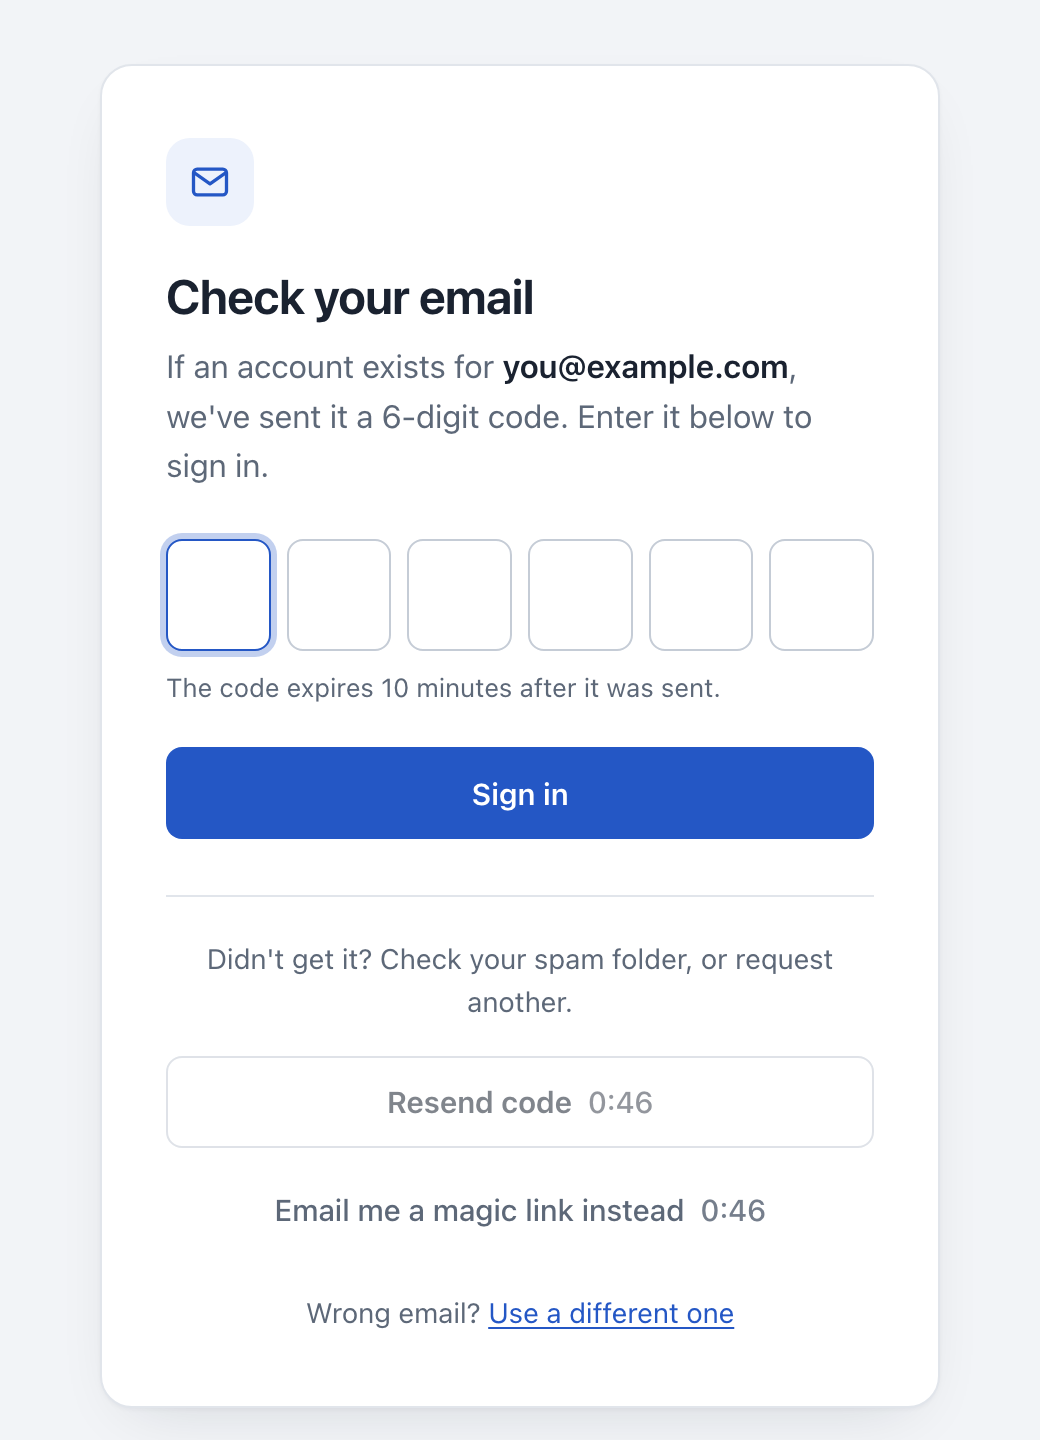
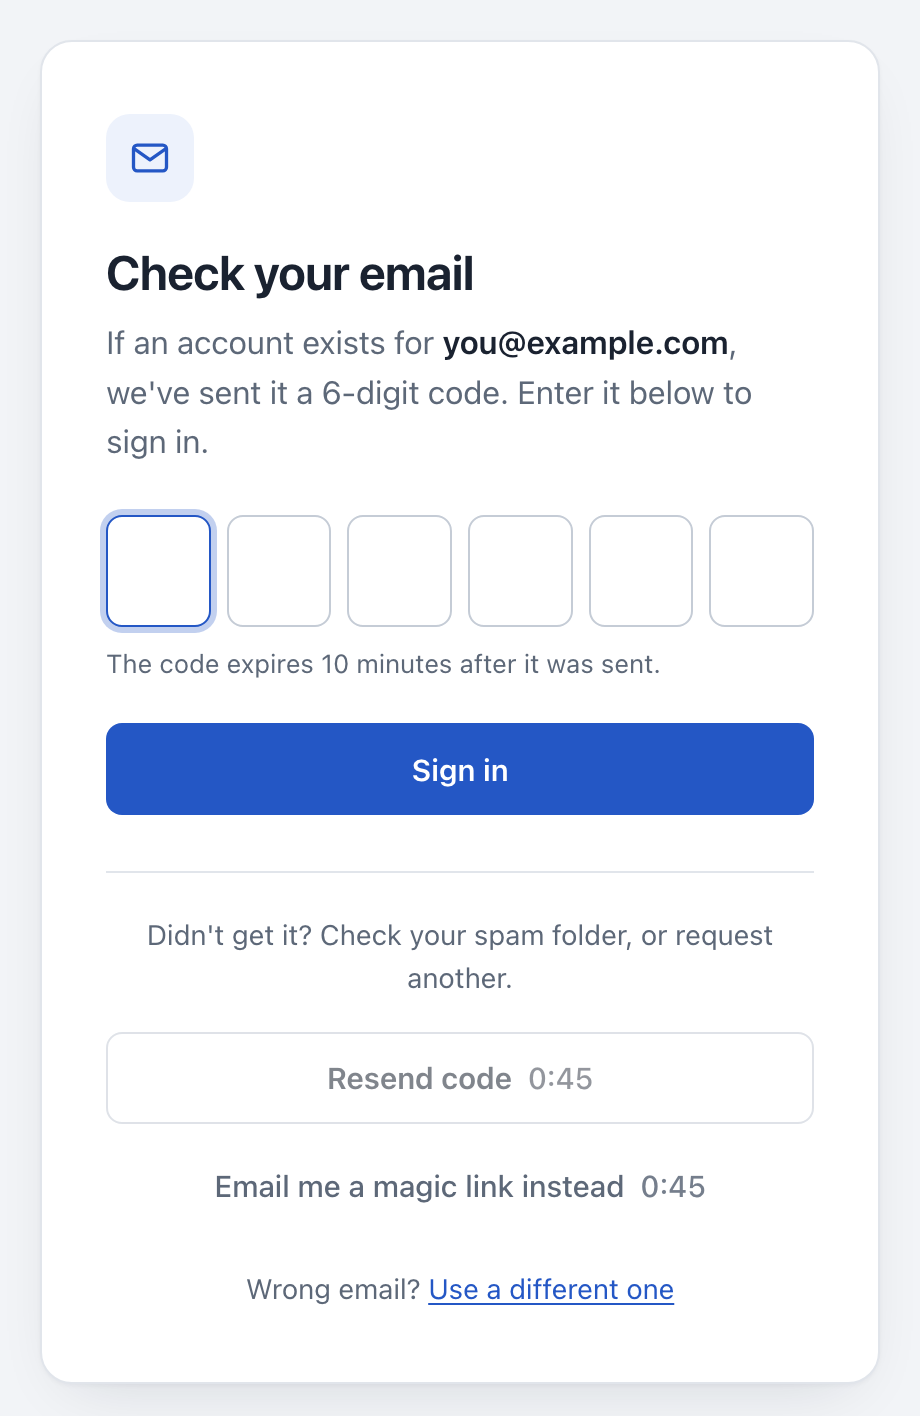
Add demo GIF, screenshots section and problem statement to README

diff --git a/README.md b/README.md
@@ -15,15 +15,59 @@ A secure passwordless login for Node.js apps: users enter their email and sign i
   <img alt="License: MIT" src="https://img.shields.io/badge/license-MIT-2457c5">
 </p>
 
-**Contents:** [Demo](#demo) · [How it works](#how-it-works) · [Features](#features) · [Stack](#stack) · [Prerequisites](#prerequisites) · [Mailtrap setup](#mailtrap-setup) · [Quick start](#quick-start) · [Key integration points](#key-integration-points) · [Failure behavior](#failure-behavior) · [Security design](#security-design) · [Configuration](#configuration) · [Tests](#tests) · [Deploying](#deploying-to-production) · [FAQ](#faq)
+## The problem
+
+Passwords are a liability. People reuse them, forget them, and every stored password is one breach away from being cracked. Emailing a one-time code or link removes passwords entirely, but a naive version opens new holes: codes saved in plain text, unlimited guessing of a 6-digit number, links that email scanners use up before the user clicks, and responses that reveal which emails have accounts. Getting passwordless login right means getting a dozen small security details right at once.
+
+## What this repo solves
+
+A small, complete Express app that handles each of those details, ready to read, run and copy into your own project.
+
+| Problem | How this repo handles it |
+| --- | --- |
+| Codes and links leaked from the database | Stored only as HMAC-SHA256 with a server-side key, single use, 10-minute expiry |
+| Guessing a 6-digit code | Locks after 5 wrong attempts, plus rate limits per email and per IP |
+| Email scanners using up magic links | Opening the link only shows a button. Sign-in happens on click. |
+| Revealing who has an account | The same page, status and minimum response time for every email |
+| Login emails arriving late or in spam | Sent through the Mailtrap Email API Transactional stream from a verified domain |
+| Users stuck when something fails | A clear message with a one-click "Send a new code" and a resend timer |
+
+**Contents:** [Demo](#demo) · [Screenshots](#screenshots) · [How it works](#how-it-works) · [Features](#features) · [Stack](#stack) · [Prerequisites](#prerequisites) · [Mailtrap setup](#mailtrap-setup) · [Quick start](#quick-start) · [Key integration points](#key-integration-points) · [Failure behavior](#failure-behavior) · [Security design](#security-design) · [Configuration](#configuration) · [Tests](#tests) · [Deploying](#deploying-to-production) · [FAQ](#faq)
 
 ## Demo
 
-| Sign in                                                                                   | Enter the code                                                                                         | Login email                                                                           |
-| ----------------------------------------------------------------------------------------- | ------------------------------------------------------------------------------------------------------ | ------------------------------------------------------------------------------------- |
-| <img src="docs/demo-login.png" alt="Sign-in page with a choice of code or magic link" width="260"> | <img src="docs/demo-code.png" alt="Check your email page with six code boxes and a resend timer" width="260"> | <img src="docs/demo-email.png" alt="Login email showing a 6-digit code" width="260"> |
+<p align="center">
+  <img src="docs/demo.gif" alt="Signing in: enter an email, choose a 6-digit code, open the email, type the code, and land on the signed-in page" width="400">
+</p>
 
-The screenshots come from a local run. The email is `src/email/templates.ts` rendered with a sample code.
+Signing in with a 6-digit code: enter your email, get the code, type it into the boxes and you're in. Recorded from a local run. The email shown is the app's own template, captured by a test mailer instead of being sent through Mailtrap.
+
+## Screenshots
+
+<table>
+  <tr>
+    <th>Sign in</th>
+    <th>Enter the code</th>
+    <th>Login email</th>
+  </tr>
+  <tr>
+    <td><img src="docs/demo-login.png" alt="Sign-in page with a choice of 6-digit code or magic link" width="260"></td>
+    <td><img src="docs/demo-code.png" alt="Check your email page with six code boxes and a resend timer" width="260"></td>
+    <td><img src="docs/demo-email.png" alt="Login email showing a 6-digit code" width="260"></td>
+  </tr>
+  <tr>
+    <th>Magic link sent</th>
+    <th>Code expired</th>
+    <th>Signed in</th>
+  </tr>
+  <tr>
+    <td><img src="docs/demo-link-sent.png" alt="Check your email page after requesting a magic link, with resend timer" width="260"></td>
+    <td><img src="docs/demo-expired.png" alt="Code expired page with a Send a new code button" width="260"></td>
+    <td><img src="docs/demo-dashboard.png" alt="Signed-in page showing the user's email and a Sign out button" width="260"></td>
+  </tr>
+</table>
+
+The screenshots come from a local run with the placeholder address `you@example.com`.
 
 ## How it works
 
